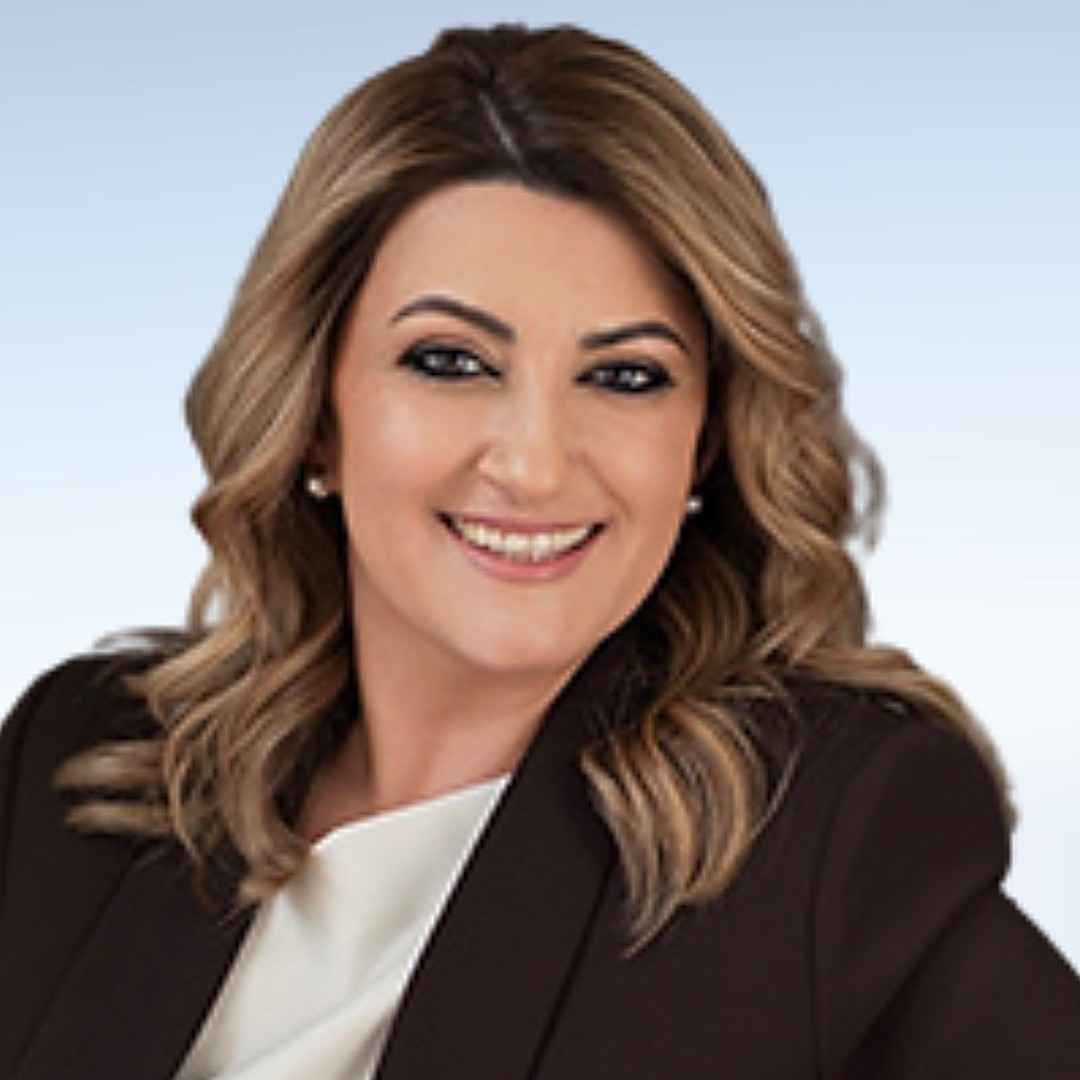
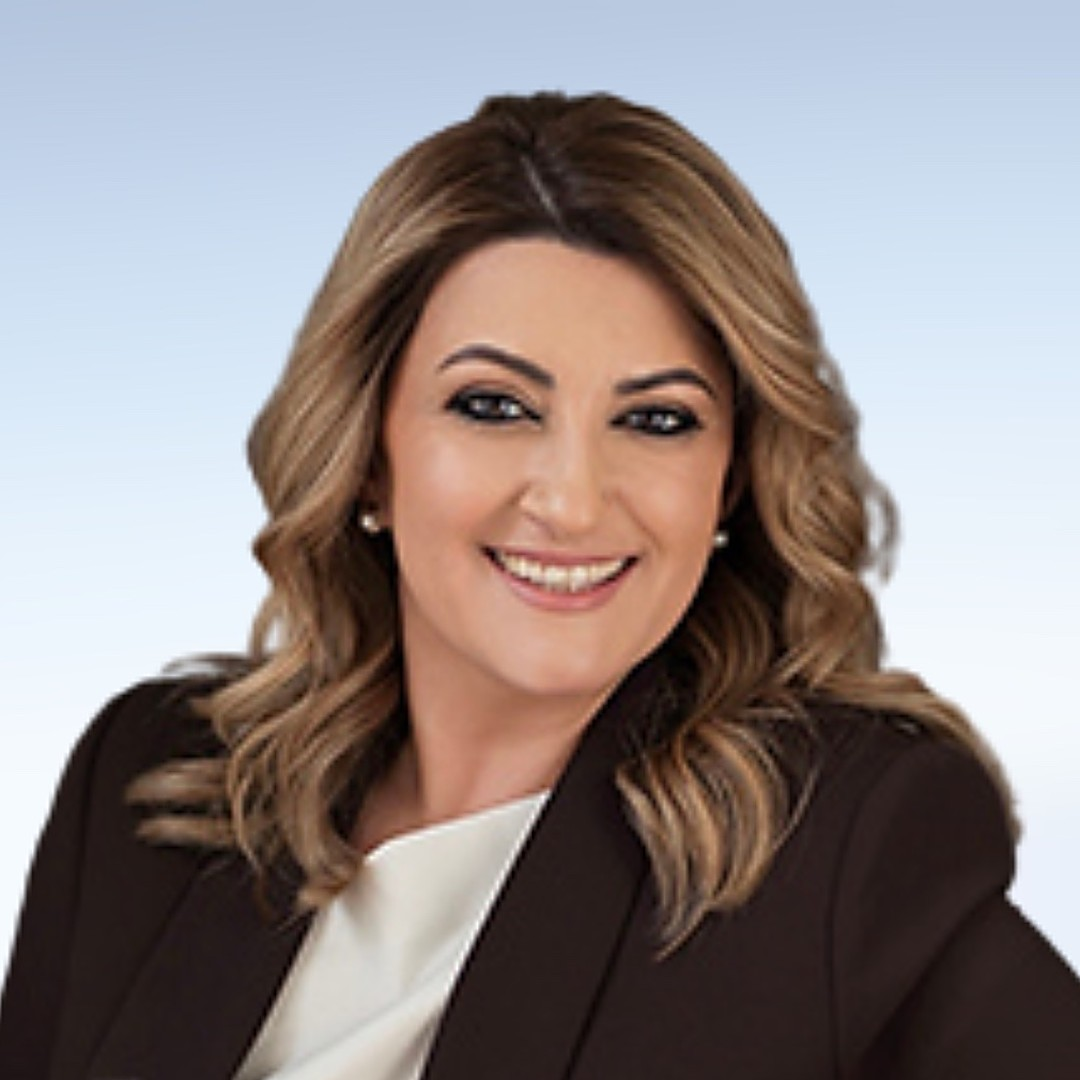
Reframe Vanda Ayrapetyan's photo
Claude-Session: https://claude.ai/code/session_01UY2yYSyHezMTLTrkPybDFD

diff --git a/team.html b/team.html
@@ -334,7 +334,7 @@
           <a class="more" href="adlea-board-bios.html#ani-gemalmazyan">Learn more &#8594;</a>
         </div>
         <div class="team-card">
-          <div class="team-photo"><img src="assets/vanda-ayrapetyan.jpg" alt="Vanda Ayrapetyan, Director"></div>
+          <div class="team-photo"><img src="assets/vanda-ayrapetyan.jpg?v=2" alt="Vanda Ayrapetyan, Director"></div>
           <h3>Vanda Ayrapetyan</h3>
           <p class="role role-voting">Director <svg class="vote-icon" viewBox="0 0 24 24" fill="none" stroke="currentColor" stroke-width="1.6" stroke-linecap="round" stroke-linejoin="round" aria-hidden="true"><path d="M12 3 5 6v5.5c0 4.4 3 7.8 7 9.5 4-1.7 7-5.1 7-9.5V6Z"/><path d="m9 12 2 2 4-4.5"/></svg><span class="sr-only"> (voting member of the Board of Directors)</span></p>
           <a class="more" href="adlea-board-bios.html#vanda-ayrapetyan">Learn more &#8594;</a>
